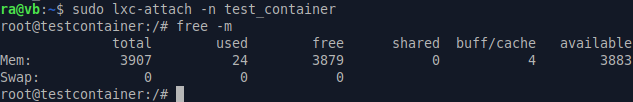
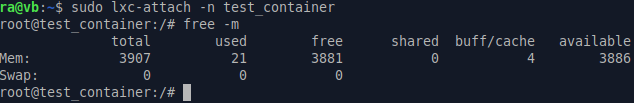
os version changed

diff --git a/README.md b/README.md
@@ -110,7 +110,7 @@
 ### Создание конейнера
 Для создания контейнера воспользуемся утилитой **lxc-create**  с параметрами
 
-`sudo lxc-create -t download -n test_container -- -d ubuntu -r focal -a amd64`
+`sudo lxc-create -t download -n test_container -- -d ubuntu -r bionic -a amd64`
 
 Проверим что контейнер создан утилитой **lxc-ls**
 
